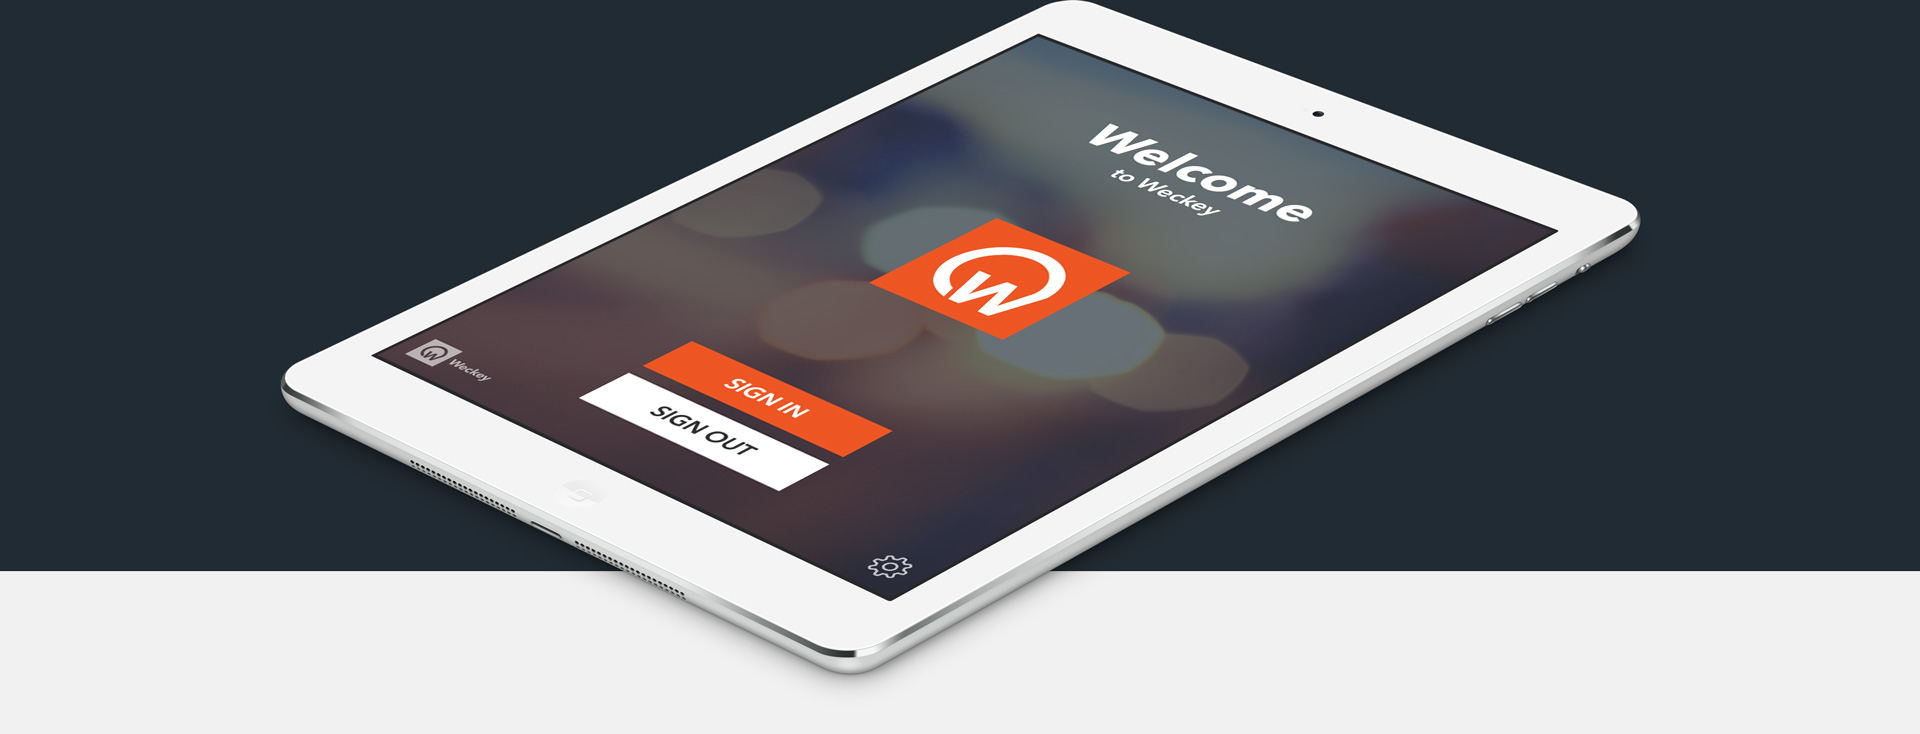
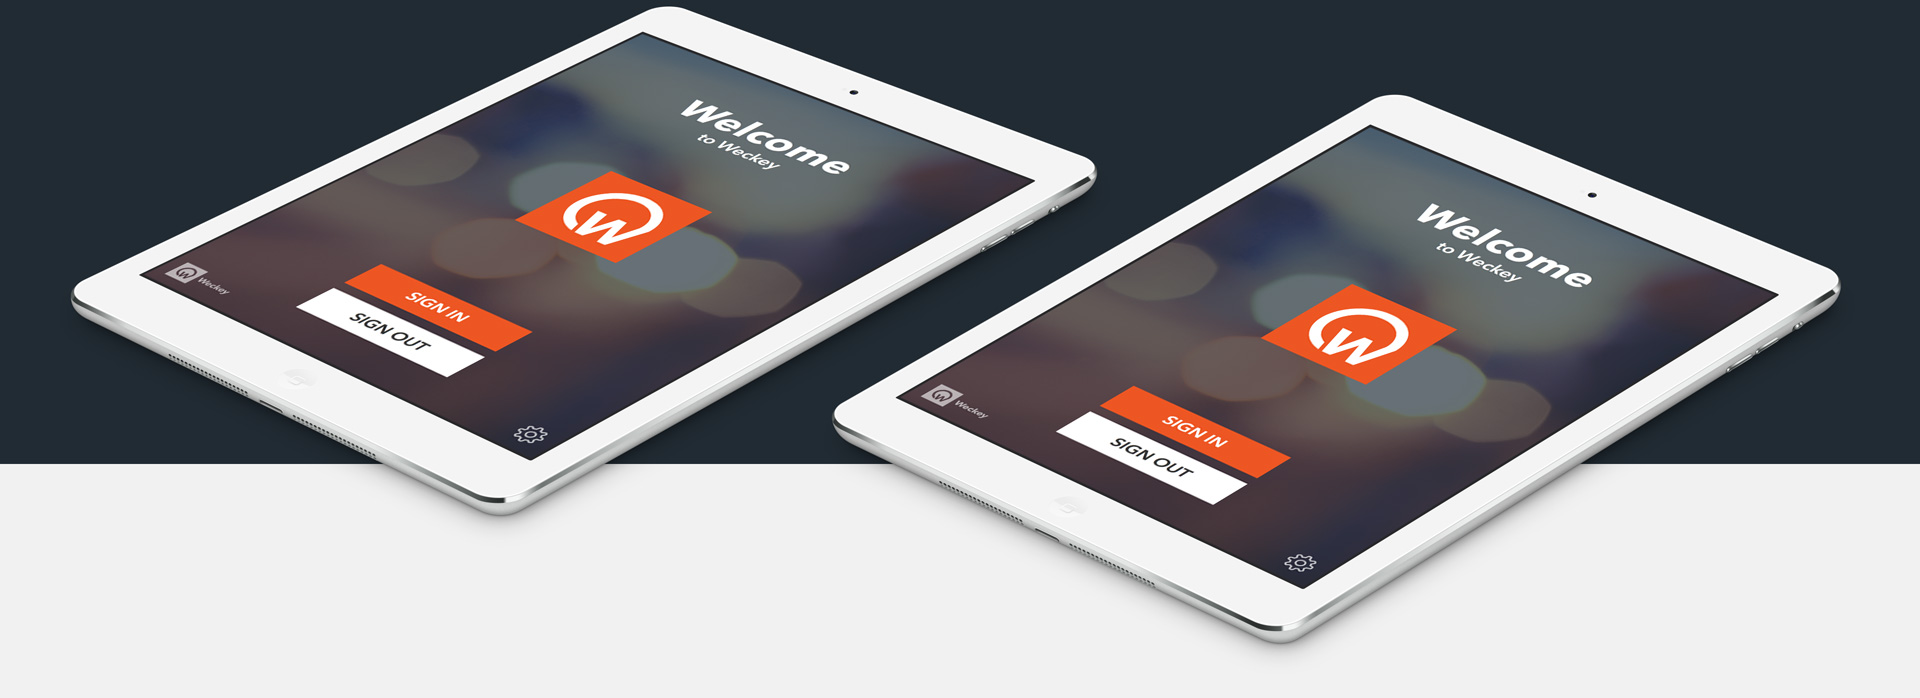
Weckey App:
- New iPad mockup

diff --git a/public/weckey-app.html b/public/weckey-app.html
@@ -75,7 +75,7 @@
 				</div>
 			</section>
 
-			<section class="lt-gray">
+			<section class="lt-gray nopad">
 				<div class="container-fluid">
 					<div class="row pad-bttm">
 						<h2>iPad App</h2>
